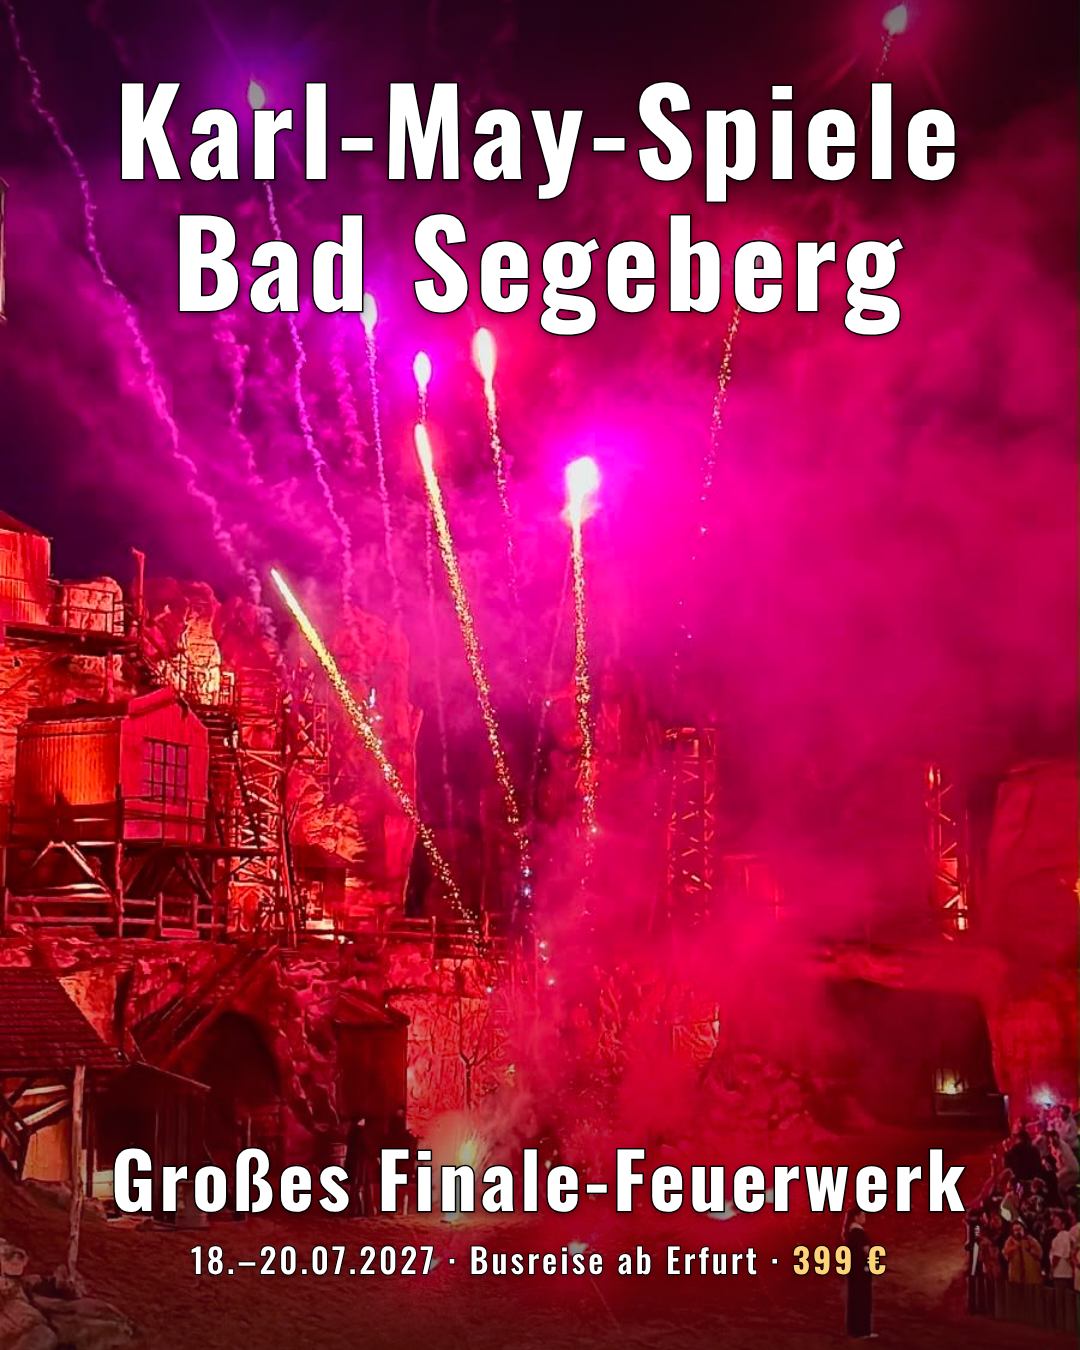
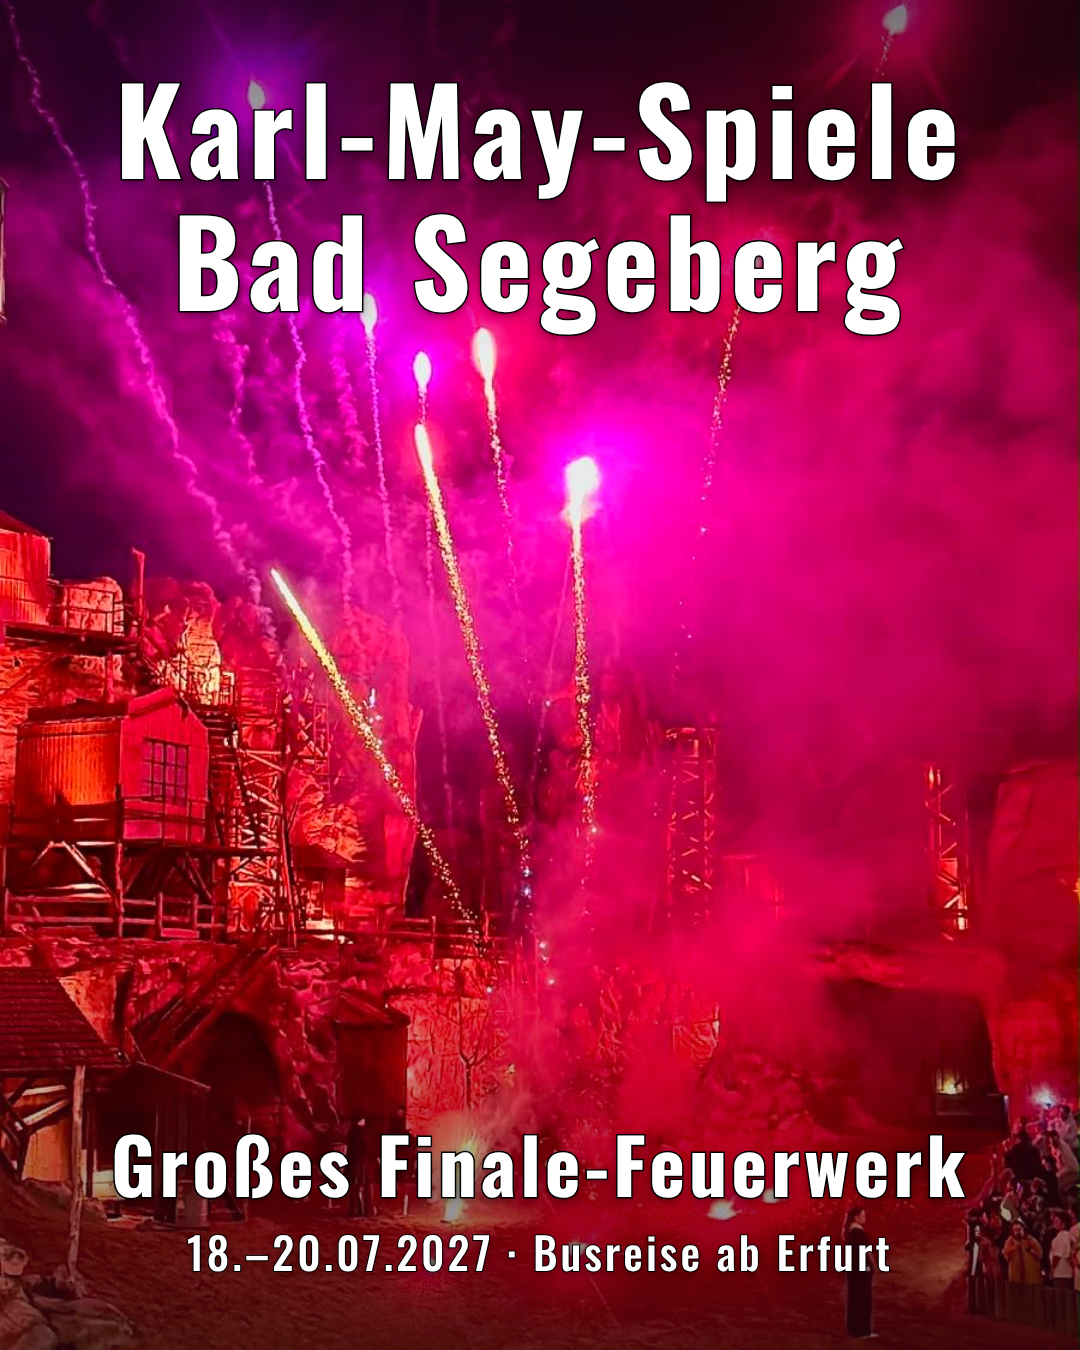
Simple Karl-May creatives: drop price, larger info line
Claude-Session: https://claude.ai/code/session_01WaKFhgz8ZvCc2eJNCdq1KM

Changed region(s): [[0.0917, 0.84, 0.9167, 0.9644]]

diff --git a/creatives/karl-may-feuerwerk-simpel.html b/creatives/karl-may-feuerwerk-simpel.html
@@ -11,13 +11,12 @@ body{width:1080px;height:1350px;font-family:Oswald,sans-serif;color:#fff;overflo
 .top .t{font-size:118px}
 .bottom{position:absolute;bottom:66px;width:100%;text-align:center}
 .bottom .t{font-size:76px;letter-spacing:4px}
-.info{margin-top:14px;font-weight:500;font-size:34px;letter-spacing:3px;-webkit-text-stroke:2px #000;paint-order:stroke fill;text-shadow:0 2px 8px rgba(0,0,0,.5)}
-.info b{color:#FFD27A;font-weight:700}
+.info{margin-top:14px;font-weight:500;font-size:44px;letter-spacing:3px;-webkit-text-stroke:2px #000;paint-order:stroke fill;text-shadow:0 2px 8px rgba(0,0,0,.5)}
 </style></head><body><div class="ad">
 <img class="bg" src="karl-may-feuerwerk-bg.jpg"><div class="fade"></div>
 <div class="top"><div class="t">Karl-May-Spiele</div><div class="t">Bad Segeberg</div></div>
 <div class="bottom">
   <div class="t">Großes Finale-Feuerwerk</div>
-  <div class="info">18.–20.07.2027 · Busreise ab Erfurt · <b>399 €</b></div>
+  <div class="info">18.–20.07.2027 · Busreise ab Erfurt</div>
 </div>
 </div></body></html>

diff --git a/creatives/karl-may-feuerwerk-simpel-1x1.html b/creatives/karl-may-feuerwerk-simpel-1x1.html
@@ -11,13 +11,12 @@ body{width:1080px;height:1080px;font-family:Oswald,sans-serif;color:#fff;overflo
 .top .t{font-size:104px}
 .bottom{position:absolute;bottom:48px;width:100%;text-align:center}
 .bottom .t{font-size:68px;letter-spacing:4px}
-.info{margin-top:8px;font-weight:500;font-size:34px;letter-spacing:3px;-webkit-text-stroke:2px #000;paint-order:stroke fill;text-shadow:0 2px 8px rgba(0,0,0,.5)}
-.info b{color:#FFD27A;font-weight:700}
+.info{margin-top:10px;font-weight:500;font-size:44px;letter-spacing:3px;-webkit-text-stroke:2px #000;paint-order:stroke fill;text-shadow:0 2px 8px rgba(0,0,0,.5)}
 </style></head><body><div class="ad">
 <img class="bg" src="karl-may-feuerwerk-bg.jpg"><div class="fade"></div>
 <div class="top"><div class="t">Karl-May-Spiele</div><div class="t">Bad Segeberg</div></div>
 <div class="bottom">
   <div class="t">Großes Finale-Feuerwerk</div>
-  <div class="info">18.–20.07.2027 · Busreise ab Erfurt · <b>399 €</b></div>
+  <div class="info">18.–20.07.2027 · Busreise ab Erfurt</div>
 </div>
 </div></body></html>
